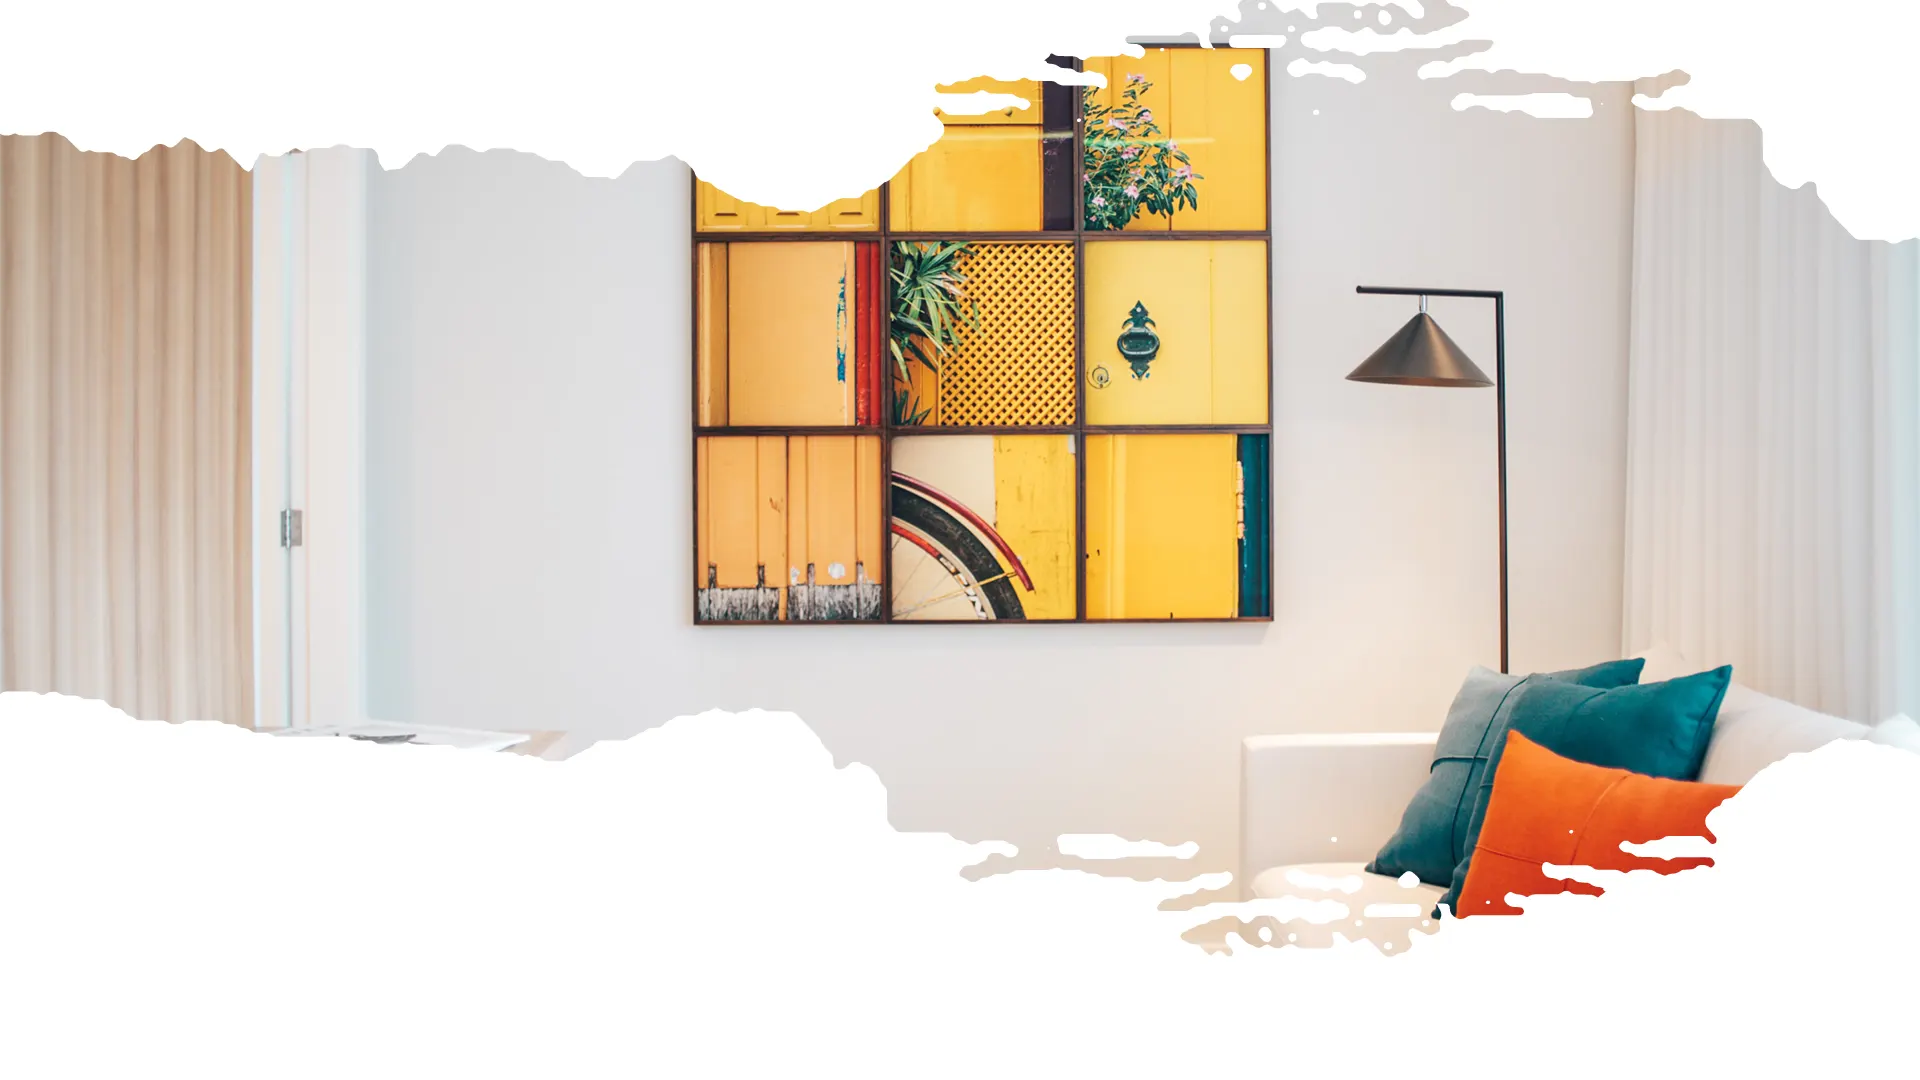
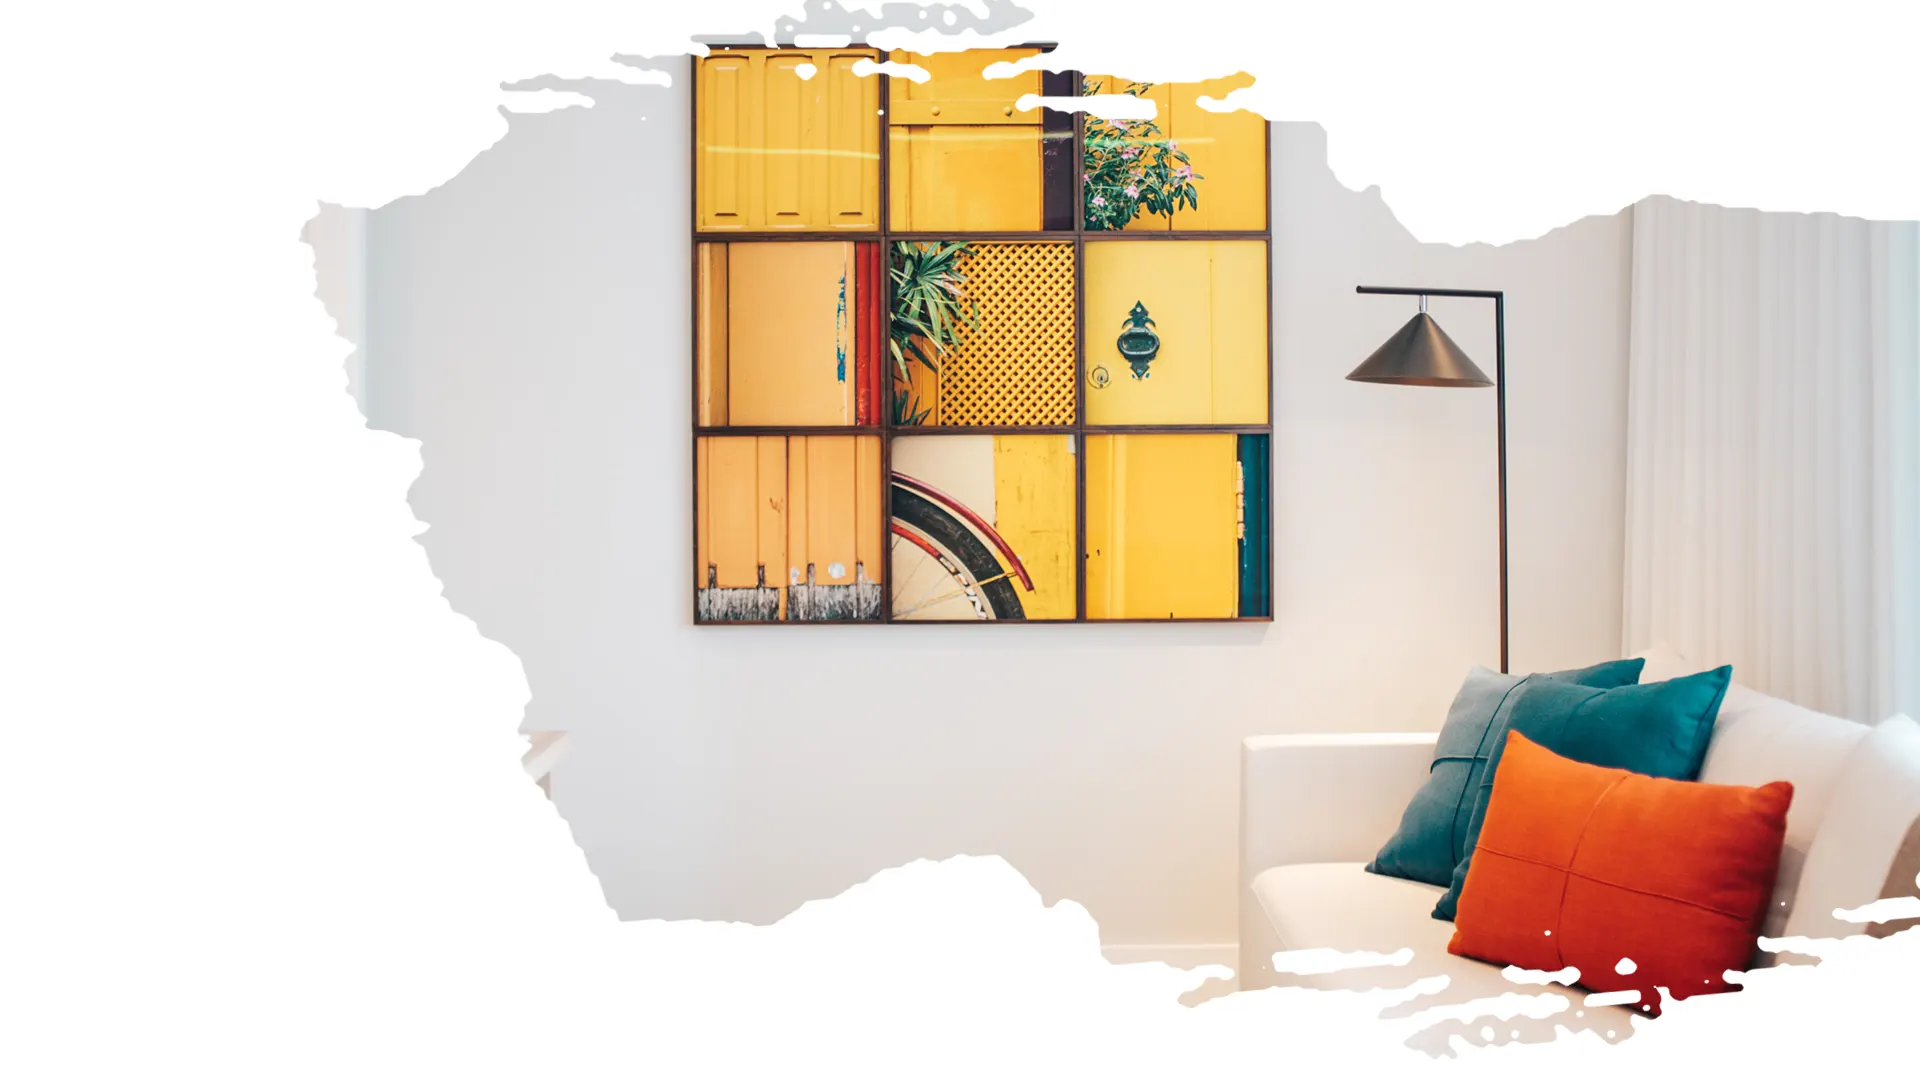
Designchange3

Changed region(s): [[0.0, 0.0, 1.0, 0.9778]]

diff --git a/public/css/main.css b/public/css/main.css
@@ -368,8 +368,8 @@ ul.social-icons {
 
 
 .home {
-  background: url('../img/bg1.webp');
-  background-position: 50% 50%;
+  background: url('../img/bg1-2.webp');
+  background-position: 52% 50%;
   background-repeat: no-repeat;
   background-size: cover;
   min-width: 100vw;
@@ -381,7 +381,7 @@ ul.social-icons {
 }
 
 .about {
-  background: url('../img/bg2.webp');
+  background: url('../img/bg2-2.webp');
   background-position: 50% 50%;
   background-repeat: no-repeat;
   background-size: cover;

diff --git a/public/index.html b/public/index.html
@@ -80,7 +80,7 @@
           <a href="tel:07951101683">Tel: 07951 101683</a>
         </li>
         <li>
-          <a href="mailto:hello@perfectlyhung.com.com"
+          <a href="mailto:hello@perfectlyhung.com"
             >hello@perfectlyhung.com</a
           >
         </li>
